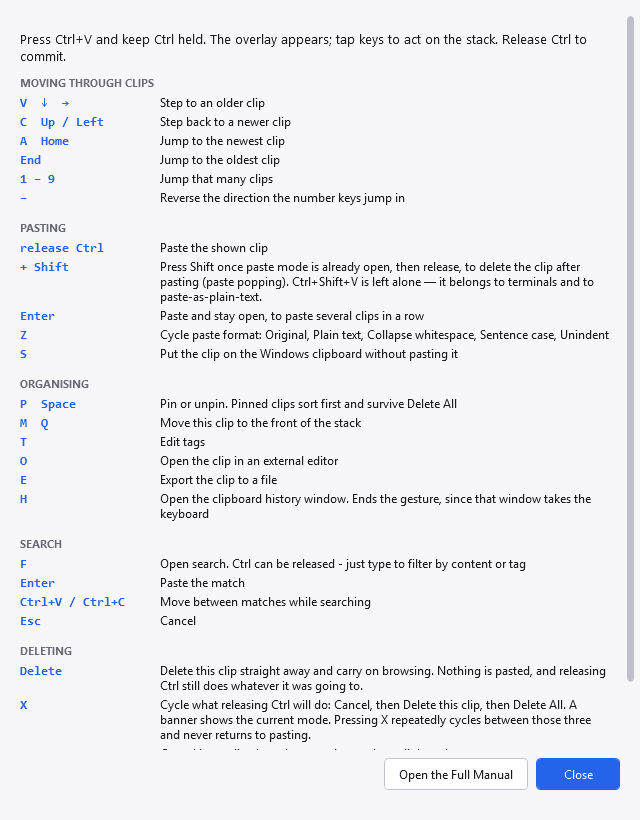
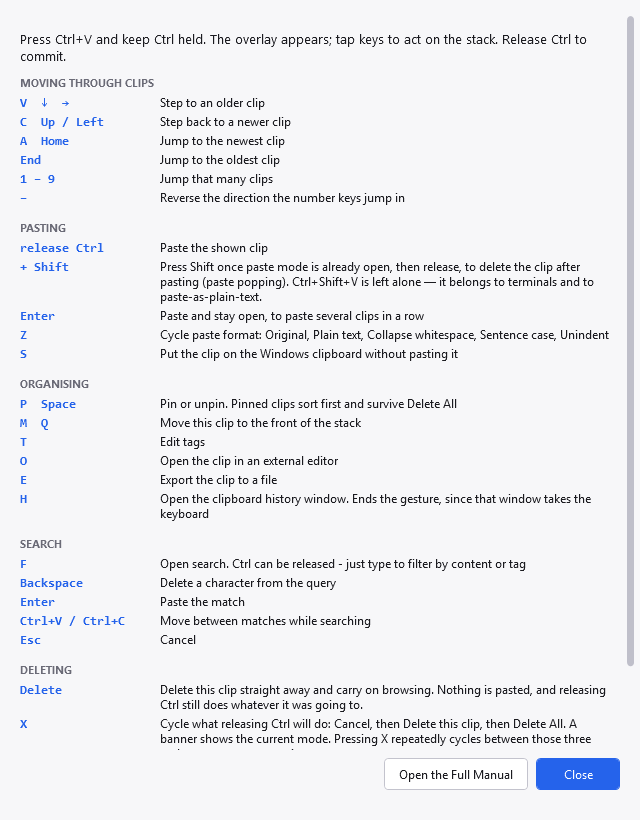
Make the fixed-keys list complete, and document three keys nobody had
Home was missing from the block headed "these cannot be changed", which was
fair to object to: it appeared only as an "also Home" note beside the
newest-clip row, because it is an alias of a letter action while End and
Delete have no letter at all. That distinction is real in the code and
invisible to a reader - anyone consulting that list to learn what is fixed got
a wrong answer.

The list is now every key that cannot be moved, including the ones that also
appear as an "also ..." note. The duplication is the point: that note answers
"what else fires this action", the list answers "what no set of bindings can
take away".

Auditing the translator against the tab to answer "did you miss any" found
three that were documented NOWHERE - not on the tab, not in the help, not in
the README, and Backspace not even on the F1 card:

  numpad 1-9      jump that many clips (0x61-0x69)
  numpad minus    reverse the jump direction (VK_SUBTRACT)
  Backspace       delete a character while searching

Shift is now listed too - it was on the card under PASTING but nowhere on the
tab, and holding it is what arms paste popping.

Fourteen rows now, and the test that joins Core's display strings to real
virtual keys checks every key each row claims, at both ends of a range and on
both the main row and the numpad. That is what surfaced the numpad pair: a
list with no test behind it can name a key that does nothing, and only a user
pressing it would ever find out.
[…]

Changed region(s): [[0.25, 0.7012, 0.9375, 0.9146], [0.0312, 0.7012, 0.1875, 0.8841], [0.9688, 0.7927, 1.0, 0.8232]]

diff --git a/docs/help/settings.html b/docs/help/settings.html
@@ -126,23 +126,30 @@ the defaults.</p>
 
 <h3>These cannot be changed</h3>
 
-<p>Scroll to the foot of the tab and it lists the actions that have no letter, so the page is a complete map of
-the gesture rather than only its adjustable half:</p>
+<p>Scroll to the foot of the tab for <b>every</b> key that no set of bindings can take away. Some of them also
+appear as an <i>also &hellip;</i> note beside a letter above; the duplication is deliberate, because that note
+answers "what else fires this action" and this list answers "what is fixed".</p>
 
 <table>
 <tr><th>Key</th><th>Action</th></tr>
-<tr><td class="key">Delete</td><td>Delete this clip now and carry on browsing</td></tr>
+<tr><td class="key">&darr; &rarr;</td><td>Step to an older clip</td></tr>
+<tr><td class="key">&uarr; &larr;</td><td>Step back to a newer clip</td></tr>
+<tr><td class="key">Home</td><td>Jump to the newest clip</td></tr>
 <tr><td class="key">End</td><td>Jump to the oldest clip</td></tr>
-<tr><td class="key">1 &ndash; 9</td><td>Jump that many clips at once</td></tr>
-<tr><td class="key">&minus;</td><td>Reverse the direction the number keys jump in</td></tr>
+<tr><td class="key">1 &ndash; 9</td><td>Jump that many clips at once, numpad included</td></tr>
+<tr><td class="key">&minus;</td><td>Reverse the direction the number keys jump in, numpad included</td></tr>
+<tr><td class="key">Space</td><td>Pin or unpin the clip</td></tr>
+<tr><td class="key">Q</td><td>Move the clip to the front of the stack</td></tr>
+<tr><td class="key">Delete</td><td>Delete this clip now and carry on browsing</td></tr>
 <tr><td class="key">Enter</td><td>Paste and stay open, to paste several clips in a row</td></tr>
+<tr><td class="key">Backspace</td><td>Delete a character while searching</td></tr>
+<tr><td class="key">Shift</td><td>Hold it, then release <code>Ctrl</code>, to delete the clip after pasting</td></tr>
 <tr><td class="key">Esc</td><td>Cancel and restore the previous clipboard</td></tr>
 <tr><td class="key">F1</td><td>Show the key list</td></tr>
 </table>
 
-<p>Together with the arrows, <code>Home</code>, <code>Space</code> and <code>Q</code> shown beside the rows
-above, these are what no set of bindings can take away. <code>Esc</code> matters most: a session that could not
-be cancelled would present as a dead keyboard.</p>
+<p><code>Esc</code> matters most of all: a session that could not be cancelled would present as a dead
+keyboard.</p>
 
 <h2>Excluded Apps</h2>
 

diff --git a/src/PasteJump.App/Views/ShortcutHelpWindow.xaml b/src/PasteJump.App/Views/ShortcutHelpWindow.xaml
@@ -173,20 +173,23 @@
                     <ColumnDefinition Width="*" />
                 </Grid.ColumnDefinitions>
                 <Grid.RowDefinitions>
-                    <RowDefinition /><RowDefinition /><RowDefinition /><RowDefinition />
+                    <RowDefinition /><RowDefinition /><RowDefinition /><RowDefinition /><RowDefinition />
                 </Grid.RowDefinitions>
 
                 <TextBlock x:Name="KeySearch" Grid.Row="0" Grid.Column="0" Style="{StaticResource KeyStyle}" />
                 <TextBlock Grid.Row="0" Grid.Column="1" Style="{StaticResource DescStyle}" Text="Open search. Ctrl can be released - just type to filter by content or tag" />
 
-                <TextBlock Grid.Row="1" Grid.Column="0" Style="{StaticResource KeyStyle}" Text="Enter" />
-                <TextBlock Grid.Row="1" Grid.Column="1" Style="{StaticResource DescStyle}" Text="Paste the match" />
+                <TextBlock Grid.Row="1" Grid.Column="0" Style="{StaticResource KeyStyle}" Text="Backspace" />
+                <TextBlock Grid.Row="1" Grid.Column="1" Style="{StaticResource DescStyle}" Text="Delete a character from the query" />
 
-                <TextBlock x:Name="SearchStepText" Grid.Row="2" Grid.Column="0" Style="{StaticResource KeyStyle}" />
-                <TextBlock Grid.Row="2" Grid.Column="1" Style="{StaticResource DescStyle}" Text="Move between matches while searching" />
+                <TextBlock Grid.Row="2" Grid.Column="0" Style="{StaticResource KeyStyle}" Text="Enter" />
+                <TextBlock Grid.Row="2" Grid.Column="1" Style="{StaticResource DescStyle}" Text="Paste the match" />
 
-                <TextBlock Grid.Row="3" Grid.Column="0" Style="{StaticResource KeyStyle}" Text="Esc" />
-                <TextBlock Grid.Row="3" Grid.Column="1" Style="{StaticResource DescStyle}" Text="Cancel" />
+                <TextBlock x:Name="SearchStepText" Grid.Row="3" Grid.Column="0" Style="{StaticResource KeyStyle}" />
+                <TextBlock Grid.Row="3" Grid.Column="1" Style="{StaticResource DescStyle}" Text="Move between matches while searching" />
+
+                <TextBlock Grid.Row="4" Grid.Column="0" Style="{StaticResource KeyStyle}" Text="Esc" />
+                <TextBlock Grid.Row="4" Grid.Column="1" Style="{StaticResource DescStyle}" Text="Cancel" />
             </Grid>
 
             <TextBlock Style="{StaticResource SectionStyle}" Text="DELETING" />

diff --git a/docs/help/gesture.html b/docs/help/gesture.html
@@ -28,8 +28,8 @@ use it &mdash; it is there so you can, not because you must.</p>
 <tr><td class="key">A<br>Home</td><td>Jump straight back to the newest clip. This is the way out of "I have
 tapped <code>V</code> two hundred times and cannot get back" &mdash; one key, however deep you are.</td></tr>
 <tr><td class="key">End</td><td>Jump to the oldest clip in the stack.</td></tr>
-<tr><td class="key">1 &ndash; 9</td><td>Jump that many clips at once.</td></tr>
-<tr><td class="key">&minus;</td><td>Reverse the direction the number keys jump in.</td></tr>
+<tr><td class="key">1 &ndash; 9</td><td>Jump that many clips at once. The numpad digits work too.</td></tr>
+<tr><td class="key">&minus;</td><td>Reverse the direction the number keys jump in. Numpad minus works too.</td></tr>
 </table>
 
 <p>The arrow keys and <code>Home</code> are alternatives, not replacements: the letters are the original
@@ -104,6 +104,7 @@ list is a real window that takes the keyboard, and while the overlay is up the g
 <tr><td class="key">F</td><td>Open search. <code>Ctrl</code> may then be released &mdash; just type to
 filter by clip content or by tag.</td></tr>
 <tr><td class="key">V / Ctrl+C</td><td>Move between matches while searching.</td></tr>
+<tr><td class="key">Backspace</td><td>Delete a character from the query.</td></tr>
 <tr><td class="key">Enter</td><td>Paste the match.</td></tr>
 <tr><td class="key">Esc</td><td>Cancel.</td></tr>
 </table>

diff --git a/src/PasteJump.Core/PasteMode/PasteKeyMap.cs b/src/PasteJump.Core/PasteMode/PasteKeyMap.cs
@@ -64,15 +64,22 @@ public sealed class PasteKeyMap
     ];
 
     /// <summary>
-    /// The actions that have no letter, and the keys that fire them.
+    /// <b>Every</b> key that cannot be moved, and what it does.
     /// <para>
-    /// Listed so the Keys tab is a complete map of the gesture rather than only its configurable half. It was
-    /// not, and that read as an omission: <c>End</c> and <c>Delete</c> appeared nowhere at all, while
-    /// <c>Home</c> showed up only as an aside on another row.
+    /// The complete list, deliberately - including the keys that also appear as an "also ..." note beside a
+    /// letter's row. The first attempt listed only the actions with no letter of their own, which left
+    /// <c>Home</c>, <c>Space</c>, <c>Q</c> and the arrows out of a block headed "these cannot be changed" while
+    /// they cannot be changed either. Anyone reading it to learn what is fixed got a wrong answer, and it was
+    /// reported as such. The duplication with those notes is the point: one says "what else fires this action",
+    /// this says "what no set of bindings can take away".
     /// </para>
     /// <para>
-    /// These cannot be moved, and that is the safety property the whole design rests on - see the note on this
-    /// class. <c>Esc</c> above all: a session that could not be cancelled would be a dead keyboard.
+    /// It also caught three that were documented nowhere at all: the numpad digits, numpad minus, and
+    /// <c>Backspace</c> in the search box.
+    /// </para>
+    /// <para>
+    /// That these cannot move is the safety property the whole design rests on - see the note on this class.
+    /// <c>Esc</c> above all: a session that could not be cancelled would be a dead keyboard.
     /// </para>
     /// <para>
     /// Display text rather than key codes, because <c>Core</c> has no business knowing Windows virtual keys.
@@ -83,11 +90,18 @@ public sealed class PasteKeyMap
     /// </summary>
     public static IReadOnlyList<(string Keys, string Description)> FixedActions { get; } =
     [
-        ("Delete", "Delete this clip now and carry on browsing"),
+        ("Down / Right", "Step to an older clip"),
+        ("Up / Left", "Step back to a newer clip"),
+        ("Home", "Jump to the newest clip"),
         ("End", "Jump to the oldest clip"),
-        ("1 - 9", "Jump that many clips at once"),
-        ("-", "Reverse the direction the number keys jump in"),
+        ("1 - 9", "Jump that many clips at once, numpad included"),
+        ("-", "Reverse the direction the number keys jump in, numpad included"),
+        ("Space", "Pin or unpin the clip"),
+        ("Q", "Move the clip to the front of the stack"),
+        ("Delete", "Delete this clip now and carry on browsing"),
         ("Enter", "Paste and stay open, to paste several clips in a row"),
+        ("Backspace", "Delete a character while searching"),
+        ("Shift", "Hold it, then release Ctrl, to delete the clip after pasting"),
         ("Esc", "Cancel and restore the previous clipboard"),
         ("F1", "Show the key list"),
     ];

diff --git a/tests/PasteJump.Interop.Tests/VirtualKeyTranslatorTests.cs b/tests/PasteJump.Interop.Tests/VirtualKeyTranslatorTests.cs
@@ -160,14 +160,23 @@ public class VirtualKeyTranslatorTests
     [Fact]
     public void Every_key_documented_as_fixed_actually_does_something()
     {
-        // Display text -> the virtual key a user would press. "1 - 9" is checked at both ends of its range.
+        // Display text -> every virtual key it claims. Ranges are checked at both ends, and each key that has a
+        // numpad twin is checked on both, which is what caught the numpad digits and numpad minus being
+        // documented nowhere.
         var expected = new Dictionary<string, int[]>
         {
-            ["Delete"] = [0x2E],
+            ["Down / Right"] = [0x28, 0x27],
+            ["Up / Left"] = [0x26, 0x25],
+            ["Home"] = [0x24],
             ["End"] = [0x23],
-            ["1 - 9"] = [0x31, 0x39],
-            ["-"] = [0xBD],
+            ["1 - 9"] = [0x31, 0x39, 0x61, 0x69],
+            ["-"] = [0xBD, 0x6D],
+            ["Space"] = [0x20],
+            ["Q"] = [0x51],
+            ["Delete"] = [0x2E],
             ["Enter"] = [0x0D],
+            ["Backspace"] = [0x08],
+            ["Shift"] = [0x10],
             ["Esc"] = [0x1B],
             ["F1"] = [0x70],
         };

diff --git a/README.md b/README.md
@@ -147,8 +147,8 @@ While Ctrl is down:
 | <kbd>C</kbd> · <kbd>↑</kbd> <kbd>←</kbd> | Step back to a newer clip |
 | <kbd>A</kbd> · <kbd>Home</kbd> | Jump to the newest clip |
 | <kbd>End</kbd> | Jump to the oldest clip |
-| <kbd>1</kbd>–<kbd>9</kbd> | Jump that many clips |
-| <kbd>-</kbd> | Reverse the direction the number keys jump |
+| <kbd>1</kbd>–<kbd>9</kbd> | Jump that many clips (numpad too) |
+| <kbd>-</kbd> | Reverse the direction the number keys jump (numpad too) |
 | <kbd>Delete</kbd> | Delete this clip now and carry on browsing |
 | <kbd>X</kbd> | Cycle what release will do: Cancel → Delete → Delete All |
 | <kbd>P</kbd> · <kbd>Space</kbd> | Pin / unpin (pinned clips sort first and survive Delete All) |
@@ -160,6 +160,7 @@ While Ctrl is down:
 | <kbd>H</kbd> | Open the clipboard history window - this ends the gesture |
 | <kbd>E</kbd> | Export the clip to a file |
 | <kbd>F</kbd> | Open incremental search |
+| <kbd>Backspace</kbd> | Delete a character from the search query |
 | <kbd>Enter</kbd> | Paste and stay open, for pasting several clips in a row |
 | <kbd>F1</kbd> | Show this list — this ends the gesture, since the window takes the keyboard |
 | release <kbd>Ctrl</kbd> | Paste |
